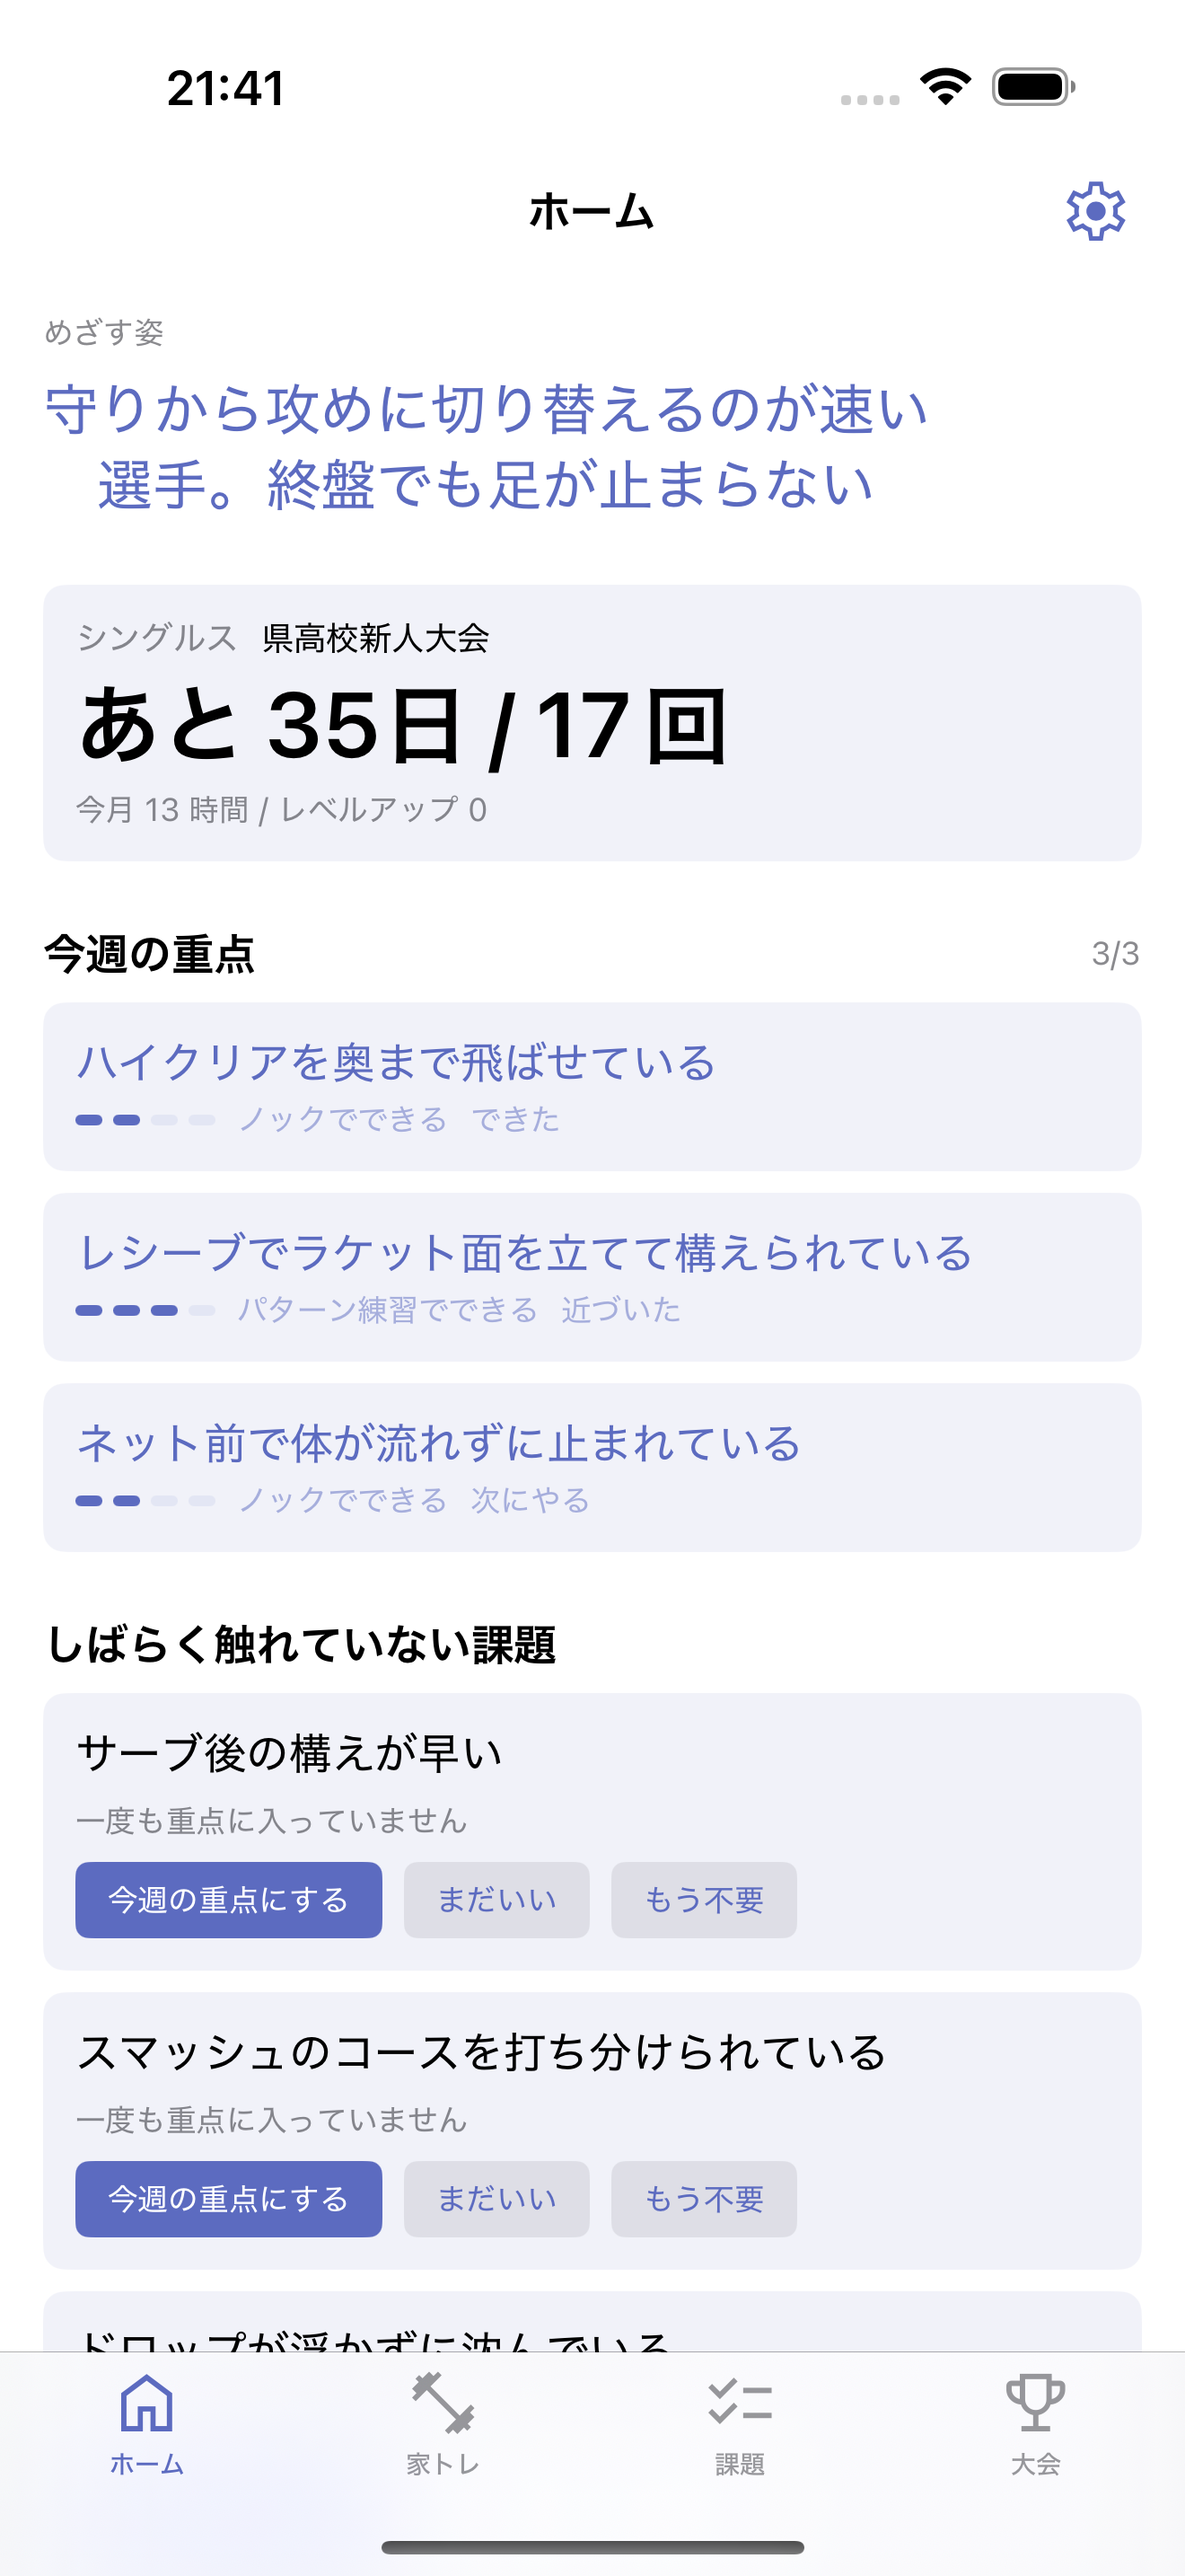
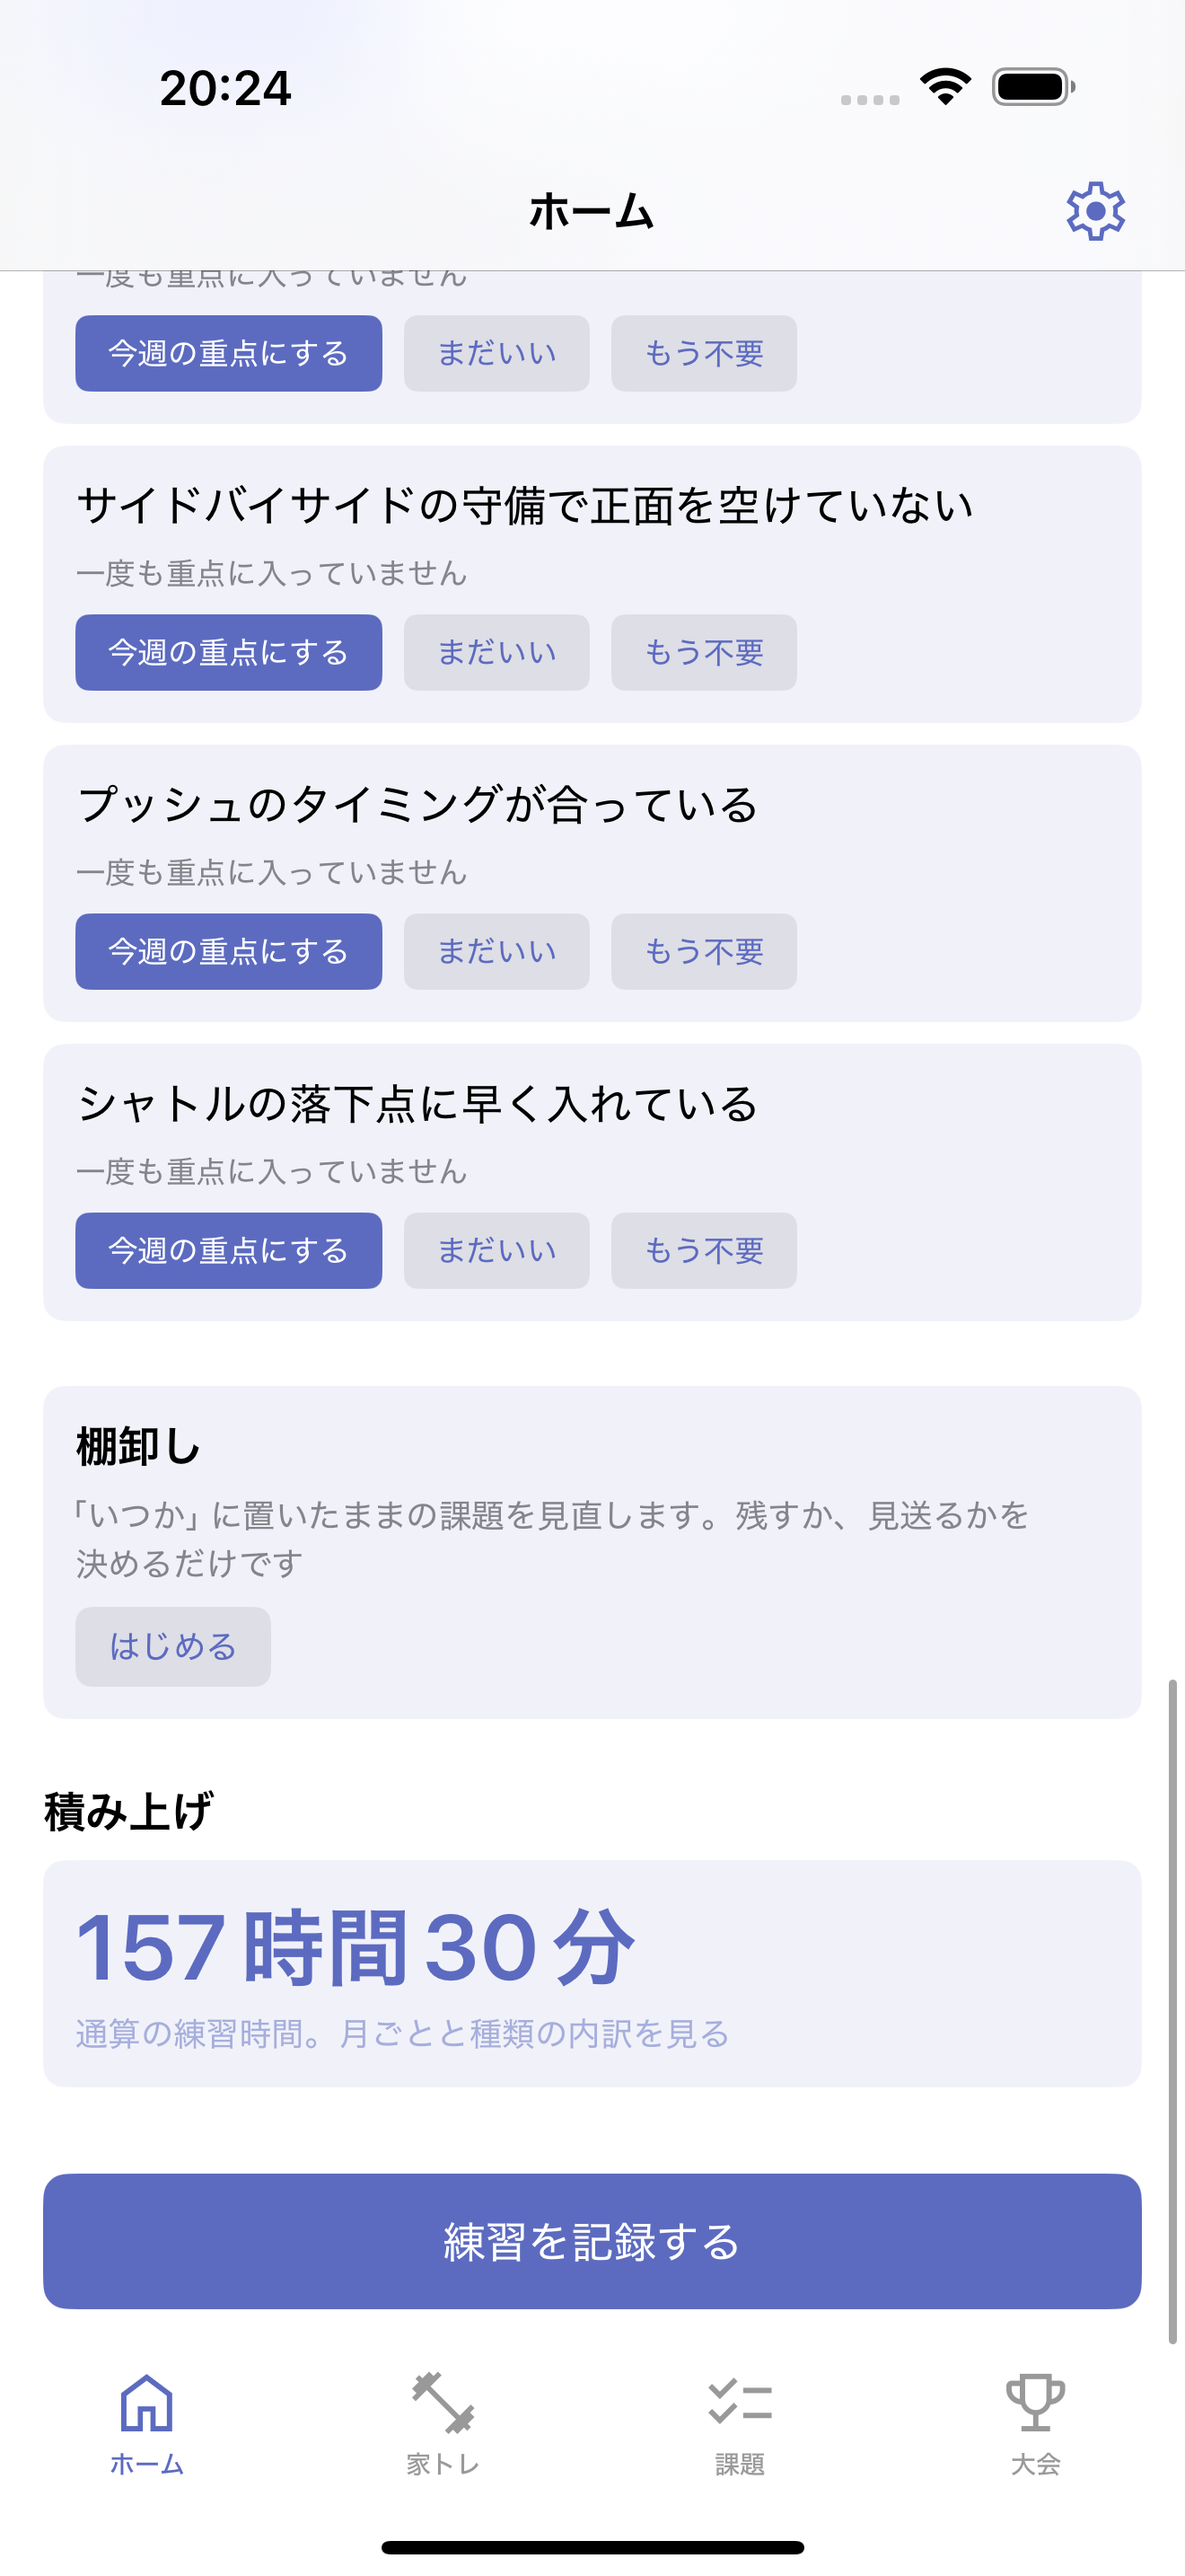
ストアのスクリーンショット 6 枚を撮り直す
1 枚目と 2 枚目が同じ画像だった。`scrollUntilVisible` が
1 枚目の下端にすでに見えていた見出しに当たり、スクロールが起きていなかった。
明示的な `swipe` に置き換えて、2 枚目を棚卸しと積み上げが入る位置にした。

撮り直した 1 枚目で、ホームの「めざす姿」と重点カード 3 枚の
文字が青いことに気づいた。`.foregroundStyle(.primary)` は当たっているが、
`List` の外の `NavigationLink` ではリンク側の色が勝つ。
`.buttonStyle(.plain)` を足して本文の色にした。
同じ課題名が一覧では黒・ホームでは青、という不一致がストアの 1 枚目に出ていた。

6 枚目は空のフォームのままだったので、60 分と全体練習を入れてから撮った。
タブはテキストで叩くようにした(タブバーの項目は識別子を受け取らない)。

swift test 771 本すべて通過。

diff --git a/Sources/BadNote/View/HomeView.swift b/Sources/BadNote/View/HomeView.swift
@@ -97,6 +97,11 @@ public struct HomeView: View {
                         .foregroundStyle(.primary)
                 }
             }
+            // **`.foregroundStyle(.primary)` だけでは青が残る**(2026-10-18 に実機で確認)。
+            // iOS 18 では `NavigationLink` のラベルに乗る色が勝ち、
+            // 同じ課題名が一覧では黒・ホームでは青になっていた。
+            // `.plain` にして初めて本文の色になる
+            .buttonStyle(.plain)
             .accessibilityIdentifier("home-vision")
             if model.isPromptingVision {
                 visionPrompt
@@ -325,6 +330,8 @@ public struct HomeView: View {
                         .frame(maxWidth: .infinity, alignment: .leading)
                         .foregroundStyle(.primary)
                     }
+                    // めざす姿と同じ理由。`.primary` だけではリンク色が勝つ
+                    .buttonStyle(.plain)
                     .accessibilityIdentifier("home-focus-card-\(card.id)")
                 }
             }

diff --git a/Darwin/docs/design.md b/Darwin/docs/design.md
@@ -65,10 +65,16 @@
 **画面ごとに伝えるべきことが違う**と気づいて分けた。
 用語集の見出し語は「もとの言葉」。**識別子 `coachWords` は変えていない**(説明だけ広げた)。
 
-**リンク色の扱い**(2026-08-22) — `NavigationLink` / `Button` のラベルは
+**リンク色の扱い**(2026-08-22、2026-10-18 に追記) —— `NavigationLink` / `Button` のラベルは
 **全体に accent 色が乗る**。本文を置くラベルには `.foregroundStyle(.primary)` を当てること。
 当てないと課題のタイトルやめざす姿の本文が青字になり、`List` の中と外で色が変わる。
 押す先がある導線(「編集する」など)は青のままにしている。
+
+**`List` の外では `.foregroundStyle(.primary)` だけでは足りない**(2026-10-18 に実機で確認)。
+`List` の行の外に置いた `NavigationLink` は、ラベルに当てた色よりリンク側の色が勝つ。
+ホームの「めざす姿」と重点カード 3 枚が、同じ課題名なのに一覧では黒・ホームでは青になっていた。
+**`.buttonStyle(.plain)` を足して初めて本文の色になる。**
+ストアのスクリーンショット 1 枚目で気づいた —— コードを読むだけでは見つからない。
 
 ### デザインの決めごと(2026-08-22。両 OS × ライト / ダークで実機確認済み)
 
